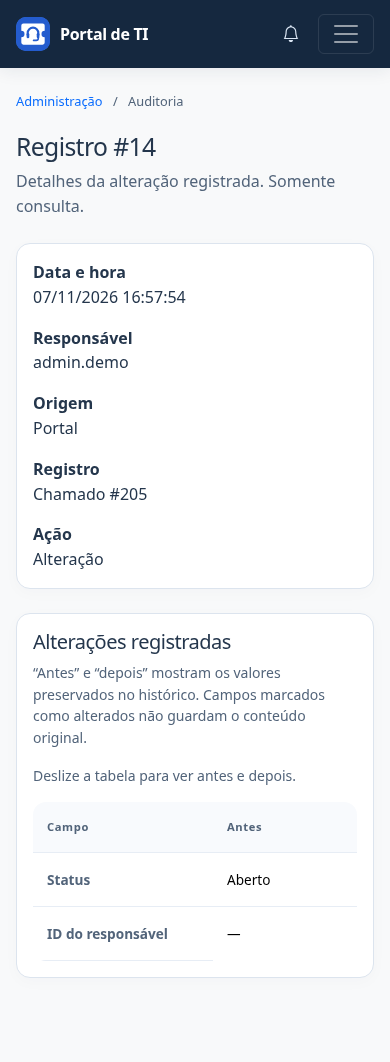
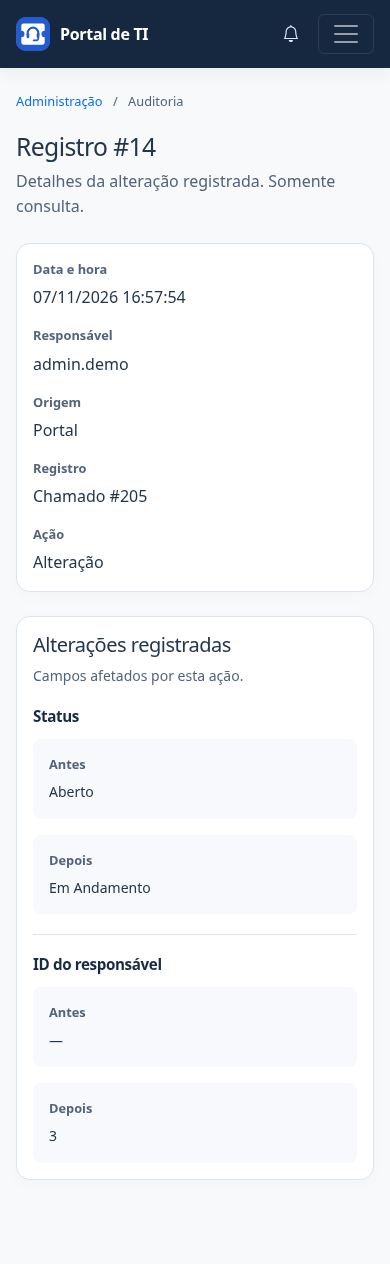
fix: clarify audit changes and align record details

diff --git a/helpdesk/templates/helpdesk/auditoria/detalhe.html b/helpdesk/templates/helpdesk/auditoria/detalhe.html
@@ -2,6 +2,21 @@
 {% block titulo %}Registro de auditoria #{{ registro.pk }}{% endblock %}
 {% block conteudo %}
 <header class="mb-4"><h1 class="h2">Registro #{{ registro.pk }}</h1><p class="text-muted mb-0">Detalhes da alteração registrada. Somente consulta.</p></header>
-<div class="card card-body mb-4"><dl class="row g-3 mb-0"><div class="col-12 col-md-4"><dt>Data e hora</dt><dd class="mb-0">{{ registro.criado_em|date:'d/m/Y H:i:s' }}</dd></div><div class="col-12 col-md-4"><dt>Responsável</dt><dd class="mb-0">{{ registro.ator.username|default:'Sistema' }}</dd></div><div class="col-12 col-md-4"><dt>Origem</dt><dd class="mb-0">{{ registro.origem_legivel }}</dd></div><div class="col-12 col-md-6"><dt>Registro</dt><dd class="mb-0">{{ registro.tipo_legivel }} #{{ registro.objeto_id }}</dd></div><div class="col-12 col-md-6"><dt>Ação</dt><dd class="mb-0">{{ registro.acao_legivel }}</dd></div></dl></div>
-<section class="card card-body"><h2 class="h5">Alterações registradas</h2><p class="small text-muted">“Antes” e “depois” mostram os valores preservados no histórico. Campos marcados como alterados não guardam o conteúdo original.</p><p class="small text-muted d-md-none">Deslize a tabela para ver antes e depois.</p><div class="table-responsive" role="region" aria-label="Detalhes das alterações" tabindex="0"><table class="table auditoria-detalhes mb-0"><thead><tr><th scope="col">Campo</th><th scope="col">Antes</th><th scope="col">Depois / informação</th></tr></thead><tbody>{% for alteracao in alteracoes %}<tr><th scope="row">{{ alteracao.campo }}</th><td><pre>{{ alteracao.antes }}</pre></td><td><pre>{{ alteracao.depois }}</pre></td></tr>{% empty %}<tr><td colspan="3" class="text-muted">Não há detalhes adicionais neste registro.</td></tr>{% endfor %}</tbody></table></div></section>
+<div class="card card-body mb-4"><dl class="auditoria-resumo mb-0">
+<div><dt>Data e hora</dt><dd>{{ registro.criado_em|date:'d/m/Y H:i:s' }}</dd></div>
+<div><dt>Responsável</dt><dd>{{ registro.ator.username|default:'Sistema' }}</dd></div>
+<div><dt>Origem</dt><dd>{{ registro.origem_legivel }}</dd></div>
+<div><dt>Registro</dt><dd>{{ registro.tipo_legivel }} #{{ registro.objeto_id }}</dd></div>
+<div><dt>Ação</dt><dd>{{ registro.acao_legivel }}</dd></div>
+</dl></div>
+<section class="card card-body"><h2 class="h5">Alterações registradas</h2><p class="small text-muted mb-0">Campos afetados por esta ação.</p>
+<div class="auditoria-mudancas">{% for alteracao in alteracoes %}
+<article class="auditoria-mudanca"><h3>{{ alteracao.campo }}</h3>
+{% if alteracao.tipo == 'comparacao' %}
+<dl class="auditoria-valores mb-0"><div><dt>Antes</dt><dd><pre>{{ alteracao.antes }}</pre></dd></div><div><dt>Depois</dt><dd><pre>{{ alteracao.depois }}</pre></dd></div></dl>
+{% elif alteracao.tipo == 'marcador' %}
+<p class="auditoria-sem-valores"><i class="bi bi-info-circle" aria-hidden="true"></i><span>Campo alterado. Os valores anterior e novo não foram armazenados.</span></p>
+{% else %}<p class="small text-muted mb-1">Informação registrada</p><pre>{{ alteracao.depois }}</pre>{% endif %}
+</article>{% empty %}<p class="text-muted mt-3 mb-0">Não há detalhes adicionais neste registro.</p>{% endfor %}</div>
+</section>
 {% endblock %}

diff --git a/helpdesk/static/helpdesk/css/portal.css b/helpdesk/static/helpdesk/css/portal.css
@@ -456,6 +456,18 @@ form label { color: var(--portal-ink); }
 .auditoria-tabela th { background: #f7f9fc; color: var(--portal-muted); font-size: .75rem; }
 .auditoria-tabela td, .auditoria-tabela th { padding: 1rem; }
 .auditoria-filtros .errorlist { font-size: .8rem; color: #b42318; padding-left: 1rem; margin: .35rem 0 0; }
-.auditoria-detalhes { min-width: 540px; table-layout: fixed; }
-.auditoria-detalhes th { color: var(--portal-muted); font-size: .85rem; }
-.auditoria-detalhes pre { white-space: pre-wrap; overflow-wrap: anywhere; font: inherit; font-size: .85rem; margin: 0; }
+.auditoria-resumo { display: grid; grid-template-columns: repeat(3, minmax(0, 1fr)); gap: 1.25rem 2rem; }
+.auditoria-resumo dt, .auditoria-valores dt { color: var(--portal-muted); font-size: .8rem; font-weight: 600; }
+.auditoria-resumo dd { margin: .35rem 0 0; overflow-wrap: anywhere; }
+.auditoria-mudanca { padding: 1.25rem 0; border-bottom: 1px solid var(--portal-line); }
+.auditoria-mudanca:last-child { padding-bottom: 0; border-bottom: 0; }
+.auditoria-mudanca h3 { font-size: .95rem; font-weight: 650; margin: 0 0 .85rem; }
+.auditoria-valores { display: grid; grid-template-columns: repeat(2, minmax(0, 1fr)); gap: 1rem; }
+.auditoria-valores > div { padding: 1rem; border-radius: 8px; background: #f7f9fc; }
+.auditoria-valores dd { margin: .4rem 0 0; }
+.auditoria-mudanca pre { white-space: pre-wrap; overflow-wrap: anywhere; font: inherit; font-size: .875rem; margin: 0; }
+.auditoria-sem-valores { display: flex; align-items: baseline; gap: .5rem; color: var(--portal-muted); font-size: .875rem; margin: 0; }
+@media (max-width: 575.98px) {
+    .auditoria-resumo, .auditoria-valores { grid-template-columns: minmax(0, 1fr); }
+    .auditoria-resumo { gap: 1rem; }
+}

diff --git a/helpdesk/auditoria.py b/helpdesk/auditoria.py
@@ -113,17 +113,18 @@ def detalhar(alteracoes):
     if not alteracoes:
         return []
     if not isinstance(alteracoes, dict):
-        return [{'campo': 'Detalhes', 'antes': '—', 'depois': formatar(alteracoes)}]
+        return [{'campo': 'Detalhes', 'tipo': 'informacao', 'antes': '—', 'depois': formatar(alteracoes)}]
     linhas = []
     for campo, valor in alteracoes.items():
-        antes, depois = '—', formatar(valor)
+        antes, depois, tipo = '—', formatar(valor), 'informacao'
         if isinstance(valor, dict):
             if 'antes' in valor or 'depois' in valor:
                 antes, depois = formatar(valor.get('antes')), formatar(valor.get('depois'))
+                tipo = 'comparacao'
             elif valor == {'alterado': True}:
-                antes, depois = 'Não armazenado', 'Alteração registrada'
+                tipo = 'marcador'
         linhas.append({'campo': CAMPOS.get(campo, campo.replace('_', ' ').capitalize()),
-                       'antes': antes, 'depois': depois})
+                       'tipo': tipo, 'antes': antes, 'depois': depois})
     return linhas
 
 

diff --git a/helpdesk/test_auditoria_portal.py b/helpdesk/test_auditoria_portal.py
@@ -89,7 +89,7 @@ class AuditoriaPortalTests(TestCase):
         self.r.save(update_fields=['alteracoes'])
         r=self.client.get(self.detalhe)
         self.assertContains(r,'Conta ativa');self.assertContains(r,'Não');self.assertContains(r,'Sim')
-        self.assertContains(r,'Alteração registrada');self.assertContains(r,'Não armazenado')
+        self.assertContains(r,'Os valores anterior e novo não foram armazenados.')
         self.assertNotContains(r,'<script>alert(1)</script>')
         self.assertContains(r,'&lt;script&gt;alert(1)&lt;/script&gt;')
         self.r.alteracoes={};self.r.ator=None;self.r.save(update_fields=['alteracoes','ator'])

diff --git a/docs/administracao.md b/docs/administracao.md
@@ -34,7 +34,7 @@ Capturas da v1.7.0 com conta fictícia de demonstração.
 
 Em Administração → Auditoria, filtre o período pelas datas inicial e final (inclusive), tipo de registro, ação e origem. A busca aceita o nome de usuário do responsável, ID do registro de auditoria ou ID do item alterado. Datas seguem o fuso horário configurado no portal. A lista mostra 20 registros por página, dos mais recentes para os mais antigos; filtros são preservados ao paginar. **Limpar** restaura a consulta completa. Filtros inválidos mostram erro, sem retornar uma lista ampla.
 
-**Ver detalhes** mostra data, responsável, origem, item e alterações, com antes/depois quando esses valores existem no histórico. Campos cujo conteúdo não foi armazenado mostram apenas a alteração registrada; informações antigas não são reconstruídas. Registros sem responsável são identificados como Sistema.
+**Ver detalhes** mostra data, responsável, origem, item e alterações, com blocos Antes e Depois quando esses valores existem no histórico. Campos que registram apenas a mudança mostram uma mensagem única, sem colunas vazias. Campos cujo conteúdo não foi armazenado mostram apenas a alteração registrada; informações antigas não são reconstruídas. Registros sem responsável são identificados como Sistema.
 
 O link Administração no topo é o único retorno. A consulta não permite criar, editar ou excluir registros e não produz novos eventos ao ser aberta. A consulta antiga do painel administrativo permanece protegida, mas não é mais o destino do card.
 
@@ -43,3 +43,5 @@ Capturas com histórico fictício de demonstração:
 ![Auditoria dentro do portal](imagens/auditoria-portal.png)
 
 ![Detalhes de um registro no celular](imagens/auditoria-detalhe-mobile.png)
+
+![Alteração de foto apresentada sem colunas vazias; dados fictícios](imagens/auditoria-foto.png)

diff --git a/CHANGELOG.md b/CHANGELOG.md
@@ -2,6 +2,8 @@
 
 ## v1.7.0 — Central de Administração
 
+- Detalhes de auditoria com resumo alinhado e alterações em blocos: comparação Antes/Depois ou indicação única de campo alterado sem valores armazenados.
+
 - Auditoria nativa do portal, com filtros por período/responsável/ID/tipo/ação/origem, paginação e detalhes protegidos. Sem edição ou exclusão, preservando o histórico existente.
 
 - Retorno das telas de gestão unificado no caminho Administração; removidos links antigos duplicados de volta a equipes, conquistas, regras e gerenciamento de usuários.
